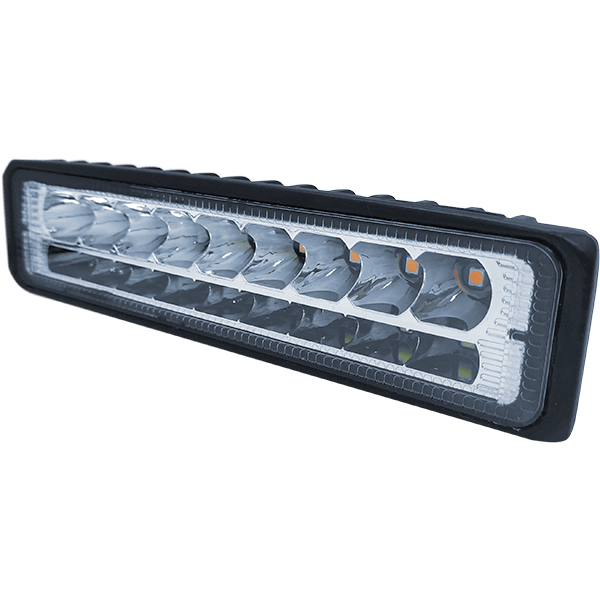
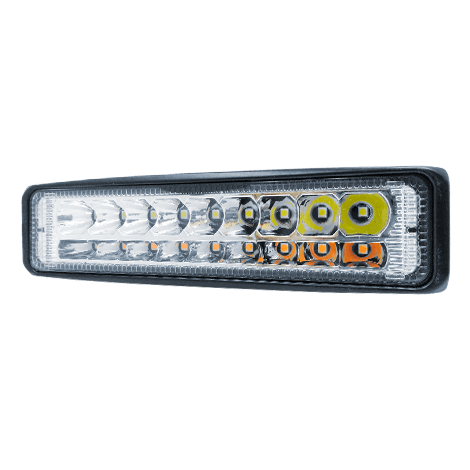
novos farois
adicionando fotos dos novos faróis

Changed region(s): [[0.0, 0.2383, 1.0, 0.7447]]

diff --git a/faroisled.html b/faroisled.html
@@ -127,7 +127,7 @@
   <!--navbar-->
 
   <!--content-->
-  <div class="container-fluid pt-5" id="top">
+  <div class="container-fluid hero7 pt-5" id="top">
     <div class="container pt-5 pb-5">
       <div class="row align-items-center">
         <div class="col-lg-8">
@@ -143,9 +143,130 @@
       </div>
     </div>
   </div>
-  <!--content-->
+  <!--content--> 
 
   <!--faróis-->
+  <div class="container-fluid descricao pt-5 pb-5">
+    <div class="container">
+      <div class="row">
+
+        <div class="col-lg-3 col-md-6 col-sm-12">
+          <img class="swing" src="assets/farois/lt1011.png" width="100%" alt="Rayx" srcset="">          
+          <h5 style="margin:0;">LT1011</h5>
+          <small>FAROL DE LED MILHA 114W</small><br>
+          <!--MODAL-->
+          <!-- Button trigger modal -->
+          <button type="button" class="btn btn-sm btn-outline-primary" data-toggle="modal" data-target="#lt1011">Informações</button>
+          <!-- Modal -->
+          <div class="modal fade" id="lt1011" tabindex="-1" role="dialog" aria-labelledby="lt1011" aria-hidden="true">
+            <div class="modal-dialog modal-dialog-centered" role="document">
+              <div class="modal-content">
+                <img src="assets/farois/ban/lt1011-ban.png" alt="">
+              </div>
+            </div>
+          </div>
+          <!--MODAL-->
+          <hr>
+          <ul>
+            <li>SETA ÂMBAR</li>
+            <li>38 LEDS * 3W / 114W</li>
+            <li>10 - 80V</li>
+            <li>LUZ BRANCA / SETA</li>
+            <li>Largura: 4,0 cm</li>
+            <li>Altura: 11,2 cm</li>
+            <li>Comprimento: 11,2 cm</li>
+          </ul>
+        </div>
+
+        <div class="col-lg-3 col-md-6 col-sm-12">
+          <img class="swing" src="assets/farois/lt1012.png" width="100%" alt="Rayx" srcset="">
+          <h5 style="margin:0;">LT1012</h5>
+          <small>FAROL DE LED MILHA 114W</small><br>
+          <!--MODAL-->
+          <!-- Button trigger modal -->
+          <button type="button" class="btn btn-sm btn-outline-primary" data-toggle="modal" data-target="#lt1012">Informações</button>
+          <!-- Modal -->
+          <div class="modal fade" id="lt1012" tabindex="-1" role="dialog" aria-labelledby="lt1012" aria-hidden="true">
+            <div class="modal-dialog modal-dialog-centered" role="document">
+              <div class="modal-content">
+                <img src="assets/farois/ban/lt1012-ban.png" alt="">
+              </div>
+            </div>
+          </div>
+          <!--MODAL-->
+          <hr>
+          <ul>
+            <li>DRL BRANCO</li>
+            <li>38 LEDS * 3W / 114W</li>
+            <li>10 - 80V</li>
+            <li>LUZ BRANCA DRL</li>
+            <li>Largura: 4,0 cm</li>
+            <li>Altura: 11,2 cm</li>
+            <li>Comprimento: 11,2 cm</li>
+          </ul>
+        </div>
+
+        <div class="col-lg-3 col-md-6 col-sm-12">
+          <img class="swing" src="assets/farois/lt1013.png" width="100%" alt="Rayx" srcset="">
+          <h5 style="margin:0;">LT1013</h5>
+          <small>FAROL DE MILHA 60W</small><br>
+          <!--MODAL-->
+          <!-- Button trigger modal -->
+          <button type="button" class="btn btn-sm btn-outline-primary" data-toggle="modal" data-target="#lt1013">Informações</button>
+          <!-- Modal -->
+          <div class="modal fade" id="lt1012" tabindex="-1" role="dialog" aria-labelledby="lt1012" aria-hidden="true">
+            <div class="modal-dialog modal-dialog-centered" role="document">
+              <div class="modal-content">
+                <img src="assets/farois/ban/lt1013-ban.png" alt="">
+              </div>
+            </div>
+          </div>
+          <!--MODAL-->
+          <hr>
+          <ul>
+            <li>Farol alto e Baixo</li>
+            <li>Seta Âmbar</li>
+            <li>DRL branco</li>
+            <li>7 Polegadas / 60W</li>
+            <li>10 - 30V</li>
+            <li>Largura: 5,0 cm</li>
+            <li>Altura: 18,5 cm</li>
+            <li>Comprimento: 18,5 cm</li>
+          </ul>
+        </div>
+
+        <div class="col-lg-3 col-md-6 col-sm-12">
+          <img class="swing" src="assets/farois/lt2025.png" width="100%" alt="Rayx" srcset="">
+          <h5 style="margin:0;">LT2025</h5>
+          <small>FAROL DE MILHA 144W</small><br>
+          <!--MODAL-->
+          <!-- Button trigger modal -->
+          <button type="button" class="btn btn-sm btn-outline-primary" data-toggle="modal" data-target="#lt2025">Informações</button>
+          <!-- Modal -->
+          <div class="modal fade" id="lt2025" tabindex="-1" role="dialog" aria-labelledby="lt2025" aria-hidden="true">
+            <div class="modal-dialog modal-dialog-centered" role="document">
+              <div class="modal-content">
+                <img src="assets/farois/ban/lt2025-ban.png" alt="">
+              </div>
+            </div>
+          </div>
+          <!--MODAL-->
+          <hr>
+          <ul>
+            <li>Farol alto e Baixo</li>
+            <li>48 Leds * 3W / 144W</li>
+            <li>12 - 80V</li>
+            <li>Largura: 6,0 cm</li>
+            <li>Altura: 10,8 cm</li>
+            <li>Comprimento: 16,8 cm</li>
+          </ul>
+        </div>
+
+      </div>
+    </div>
+  </div>
+
+  <!--faróis old-->
   <div class="container-fluid descricao hero1 pt-5 pb-5">
     <div class="container">
       <div class="row">
@@ -235,7 +356,7 @@
         </div>
         <div class="col-lg-3 col-md-6 col-sm-12">
           <img class="indisponivel" src="assets/farois/lt1624.png" width="100%" alt="Rayx" srcset="">
-          <h5 style="margin:0;">LT1624 <span class="badge badge-sm badge-danger">INDISPONÍVEL</span></h5>
+          <h5 style="margin:0;">LT1624 <span class="badge badge-sm badge-danger">ESGOTADO!</span></h5>
           <small>SUPER LED  DE 1.5W</small>
           <hr>
           <ul>
@@ -545,7 +666,7 @@
       <div class="row">        
         <div class="col-lg-3 col-md-6 col-sm-12">
           <img class="indisponivel" src="assets/farois/lt1068am.png" width="100%" alt="Rayx" srcset="">
-          <h5 style="margin:0;">LT1068AM <span class="badge badge-sm badge-danger">INDISPONÍVEL</span></h5>
+          <h5 style="margin:0;">LT1068AM <span class="badge badge-sm badge-danger">ESGOTADO!</span></h5>
           <small>SINALIZADOR DE LED / GIROFLEX</small>
           <hr>
           <ul>
